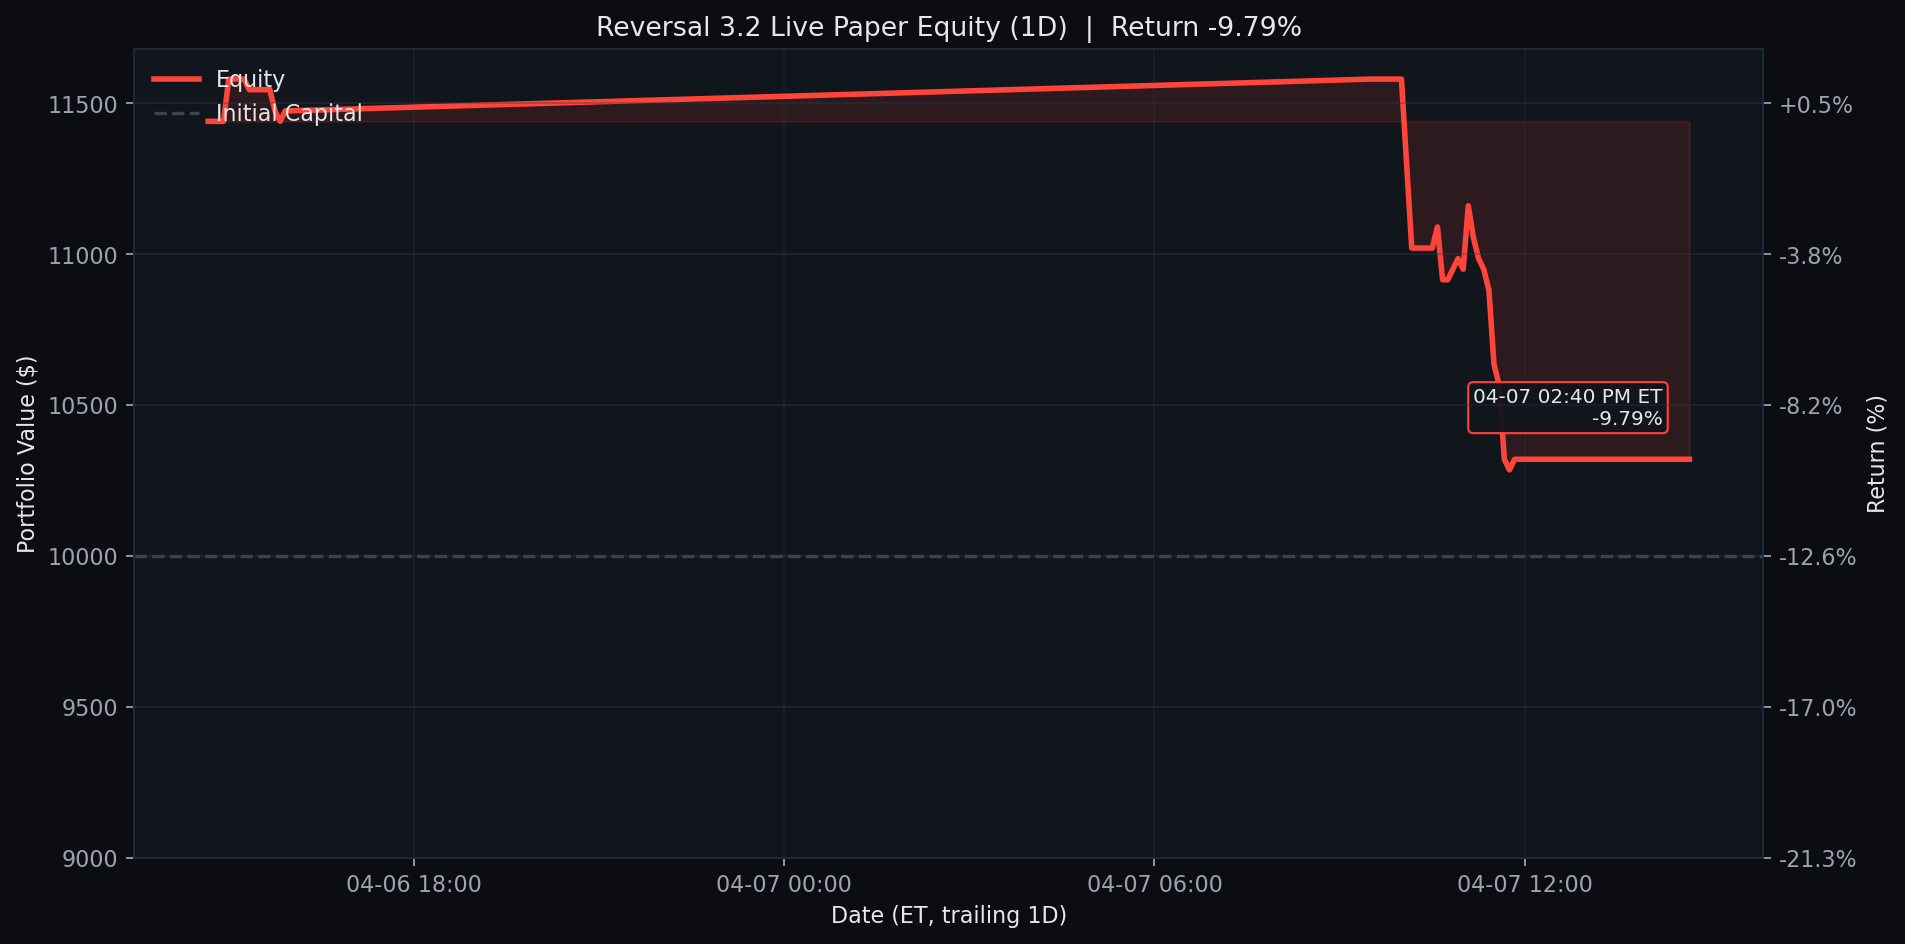
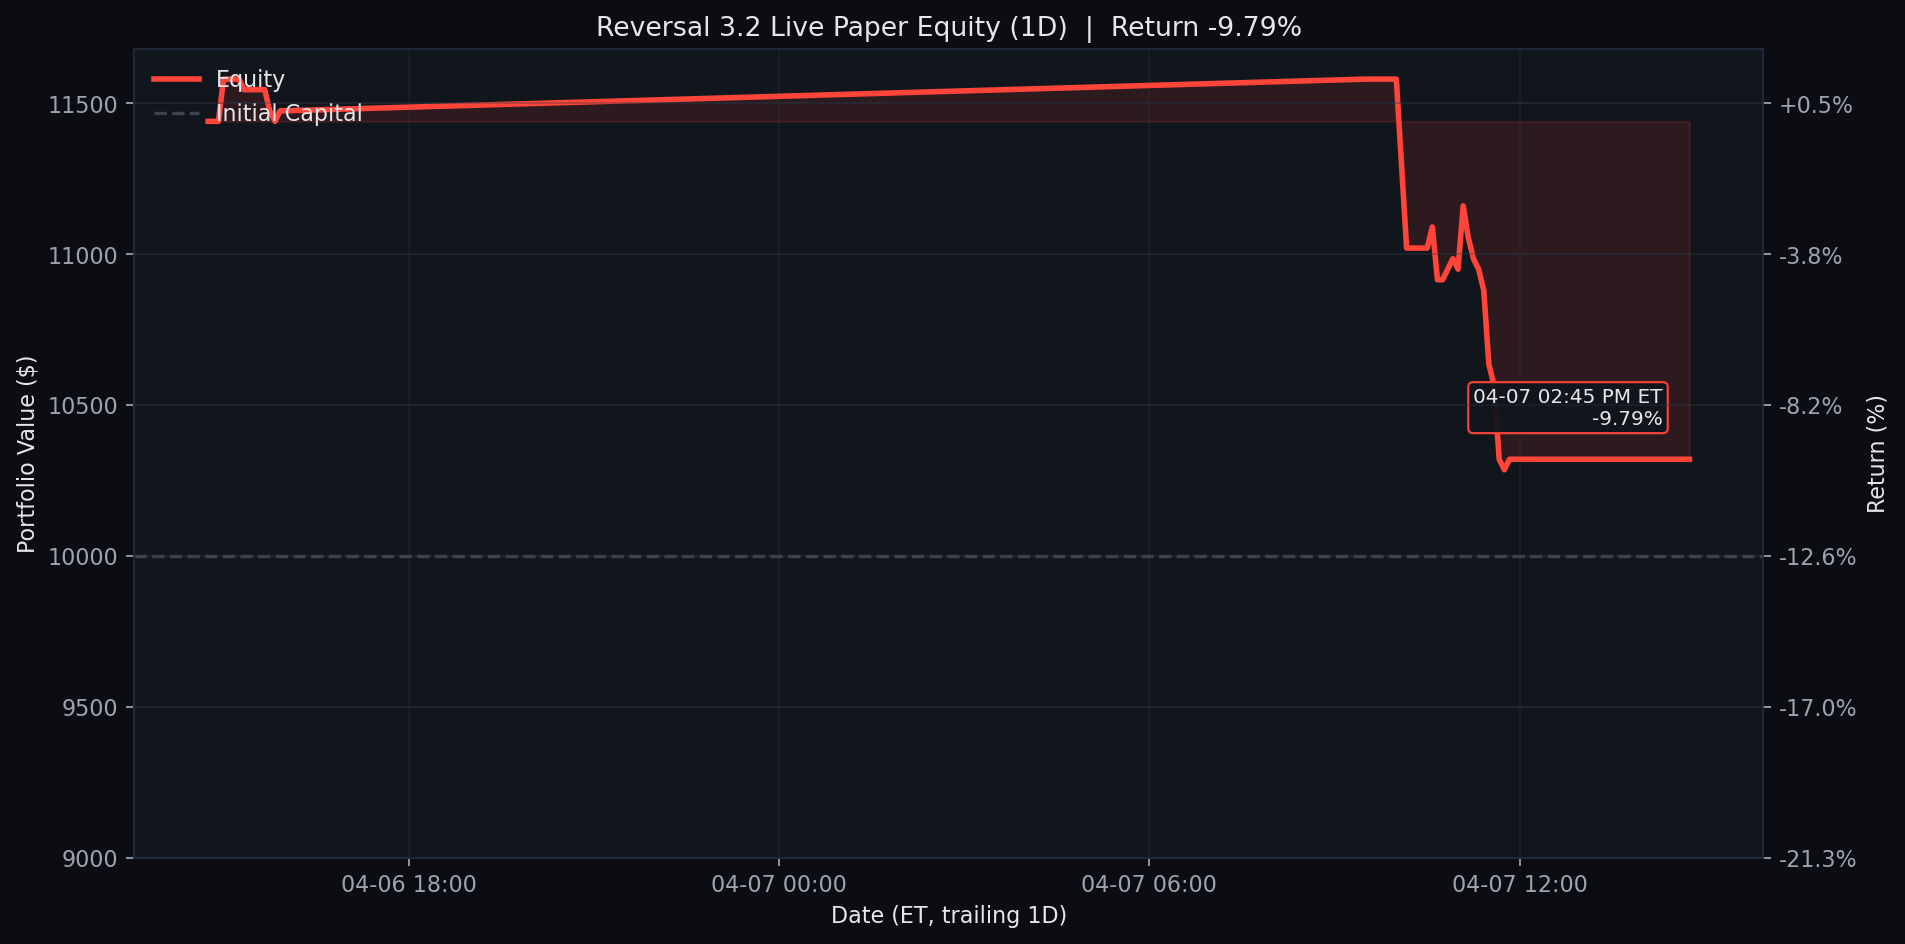
Update Reversal 3.2 live paper test 2026-04-07 14:45 ET

diff --git a/results/reversal_3_2_live/README.md b/results/reversal_3_2_live/README.md
@@ -1,7 +1,7 @@
 # Reversal 3.2 Live Paper Test
 
-Last updated (ET): `2026-04-07 14:40:00 EDT`
-Last processed slot: `manage_1430`
+Last updated (ET): `2026-04-07 14:45:00 EDT`
+Last processed slot: `manual_refresh`
 
 ## Active Configuration
 
@@ -40,18 +40,18 @@ ticker    contract_symbol entry_trade_date_et exit_trade_date_et  entry_option_p
 
 ```text
 ticker  success_rate_%  matched_signals  current_drop_%  target_rebound_$  target_price  rolling_sigma_20d_%  call_candidate
-  REGN           97.14               35            0.71              3.81        761.41                25.24            True
-  MRVL           96.67               30            1.46              1.12        109.03                70.84            True
-  UPRO           92.59               27            1.59              1.12        100.26                53.86            True
-  NVDA           92.59               27            1.18              1.47        177.01                33.70            True
-  CDNS           91.11               45            0.66              1.29        278.84                25.26            True
-  COST           90.91               11            1.16              8.25       1015.02                13.04            True
-   LIN           90.00               10            1.36              4.74        497.44                19.02            True
-  SNPS           88.89               45            0.61              1.71        396.34                35.70            True
-  PCAR           88.24               34            0.84              0.69        118.02                21.97            True
-  TSLA           88.24               17            3.25              8.04        349.38                42.33            True
-   KDP           88.24               17            0.70              0.13         25.65                20.32            True
-  VRTX           87.80               41            0.59              1.78        433.54                40.01            True
+  TSLA          100.00               13            3.44              8.48        349.18                42.33            True
+  REGN           97.06               34            0.81              4.31        761.19                25.24            True
+  MRVL           96.67               30            1.47              1.13        109.03                70.84            True
+  UPRO           92.59               27            1.64              1.16        100.24                53.86            True
+  NVDA           92.59               27            1.20              1.50        177.00                33.70            True
+  COST           92.31               13            1.09              7.77       1015.22                13.04            True
+  MPWR           91.89               37            0.58              4.82       1177.97                51.99            True
+  CDNS           90.91               44            0.75              1.47        278.76                25.26            True
+   LIN           90.00               10            1.43              5.00        497.33                19.02            True
+  ORLY           88.57               35            0.73              0.47         91.93                23.11            True
+   KDP           88.24               17            0.68              0.12         25.65                20.32            True
+   CSX           88.00               25            0.61              0.18         41.40                24.91            True
 ```
 
 ## Recent Events
@@ -77,20 +77,20 @@ Each chart is generated from the same live equity series with no-lookahead marks
 <details>
 <summary><strong>1D</strong></summary>
 
-![Reversal 3.2 Live Equity 1D](../../assets/reversal_3_2_live_equity_1d.png?v=20260407144000)
+![Reversal 3.2 Live Equity 1D](../../assets/reversal_3_2_live_equity_1d.png?v=20260407144500)
 
 </details>
 
 <details open>
 <summary><strong>1W</strong></summary>
 
-![Reversal 3.2 Live Equity 1W](../../assets/reversal_3_2_live_equity.png?v=20260407144000)
+![Reversal 3.2 Live Equity 1W](../../assets/reversal_3_2_live_equity.png?v=20260407144500)
 
 </details>
 
 <details>
 <summary><strong>1M</strong></summary>
 
-![Reversal 3.2 Live Equity 1M](../../assets/reversal_3_2_live_equity_1m.png?v=20260407144000)
+![Reversal 3.2 Live Equity 1M](../../assets/reversal_3_2_live_equity_1m.png?v=20260407144500)
 
 </details>

diff --git a/README.md b/README.md
@@ -3,10 +3,10 @@
 <!-- reversal-3.2-live:start -->
 ## Reversal 3.2 Live Paper Test
 
-- Last updated (ET): `2026-04-07 14:40:00 EDT`
+- Last updated (ET): `2026-04-07 14:45:00 EDT`
 - Equity: `$10,320.00` | Realized: `$320.00` | Unrealized: `$0.00` | Open positions: `0`
 - Today closed trades: `1`
-- Current slot: `manage_1430`
+- Current slot: `manual_refresh`
 - Universe: `qqq_plus_leverage_etfs`
 - Chart windows: `1D / 1W / 1M` (default open panel: `1W`)
 
@@ -17,21 +17,21 @@ _None_
 <details>
 <summary><strong>1D</strong></summary>
 
-![Reversal 3.2 Live Equity 1D](assets/reversal_3_2_live_equity_1d.png?v=20260407144000)
+![Reversal 3.2 Live Equity 1D](assets/reversal_3_2_live_equity_1d.png?v=20260407144500)
 
 </details>
 
 <details open>
 <summary><strong>1W</strong></summary>
 
-![Reversal 3.2 Live Equity 1W](assets/reversal_3_2_live_equity.png?v=20260407144000)
+![Reversal 3.2 Live Equity 1W](assets/reversal_3_2_live_equity.png?v=20260407144500)
 
 </details>
 
 <details>
 <summary><strong>1M</strong></summary>
 
-![Reversal 3.2 Live Equity 1M](assets/reversal_3_2_live_equity_1m.png?v=20260407144000)
+![Reversal 3.2 Live Equity 1M](assets/reversal_3_2_live_equity_1m.png?v=20260407144500)
 
 </details>
 
